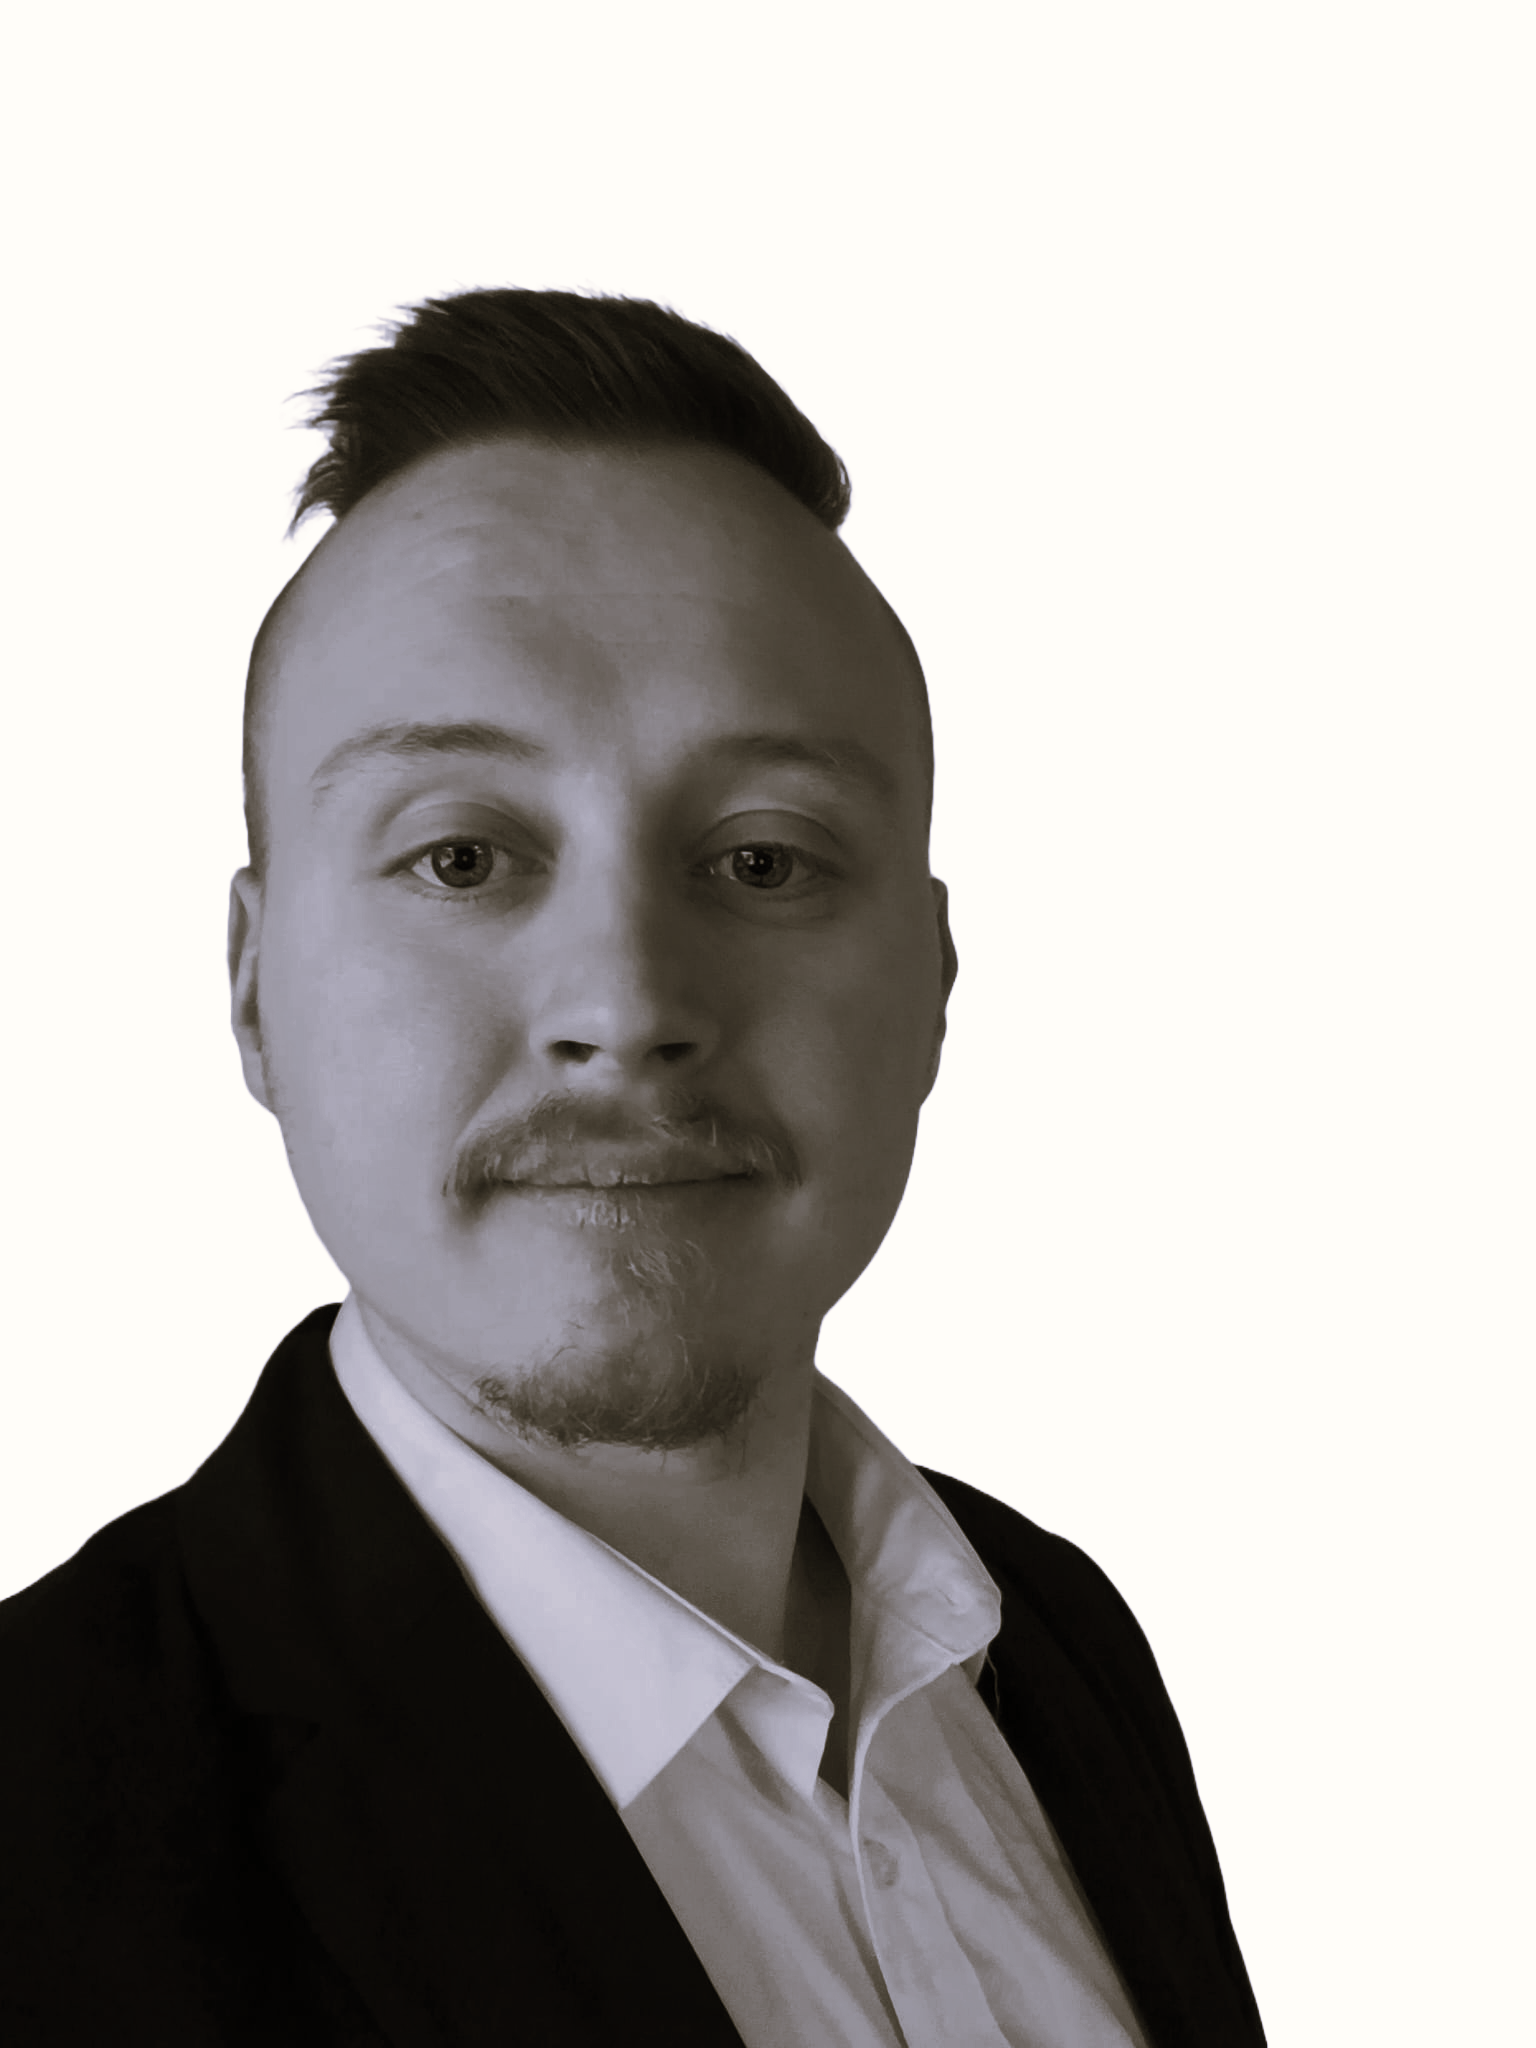
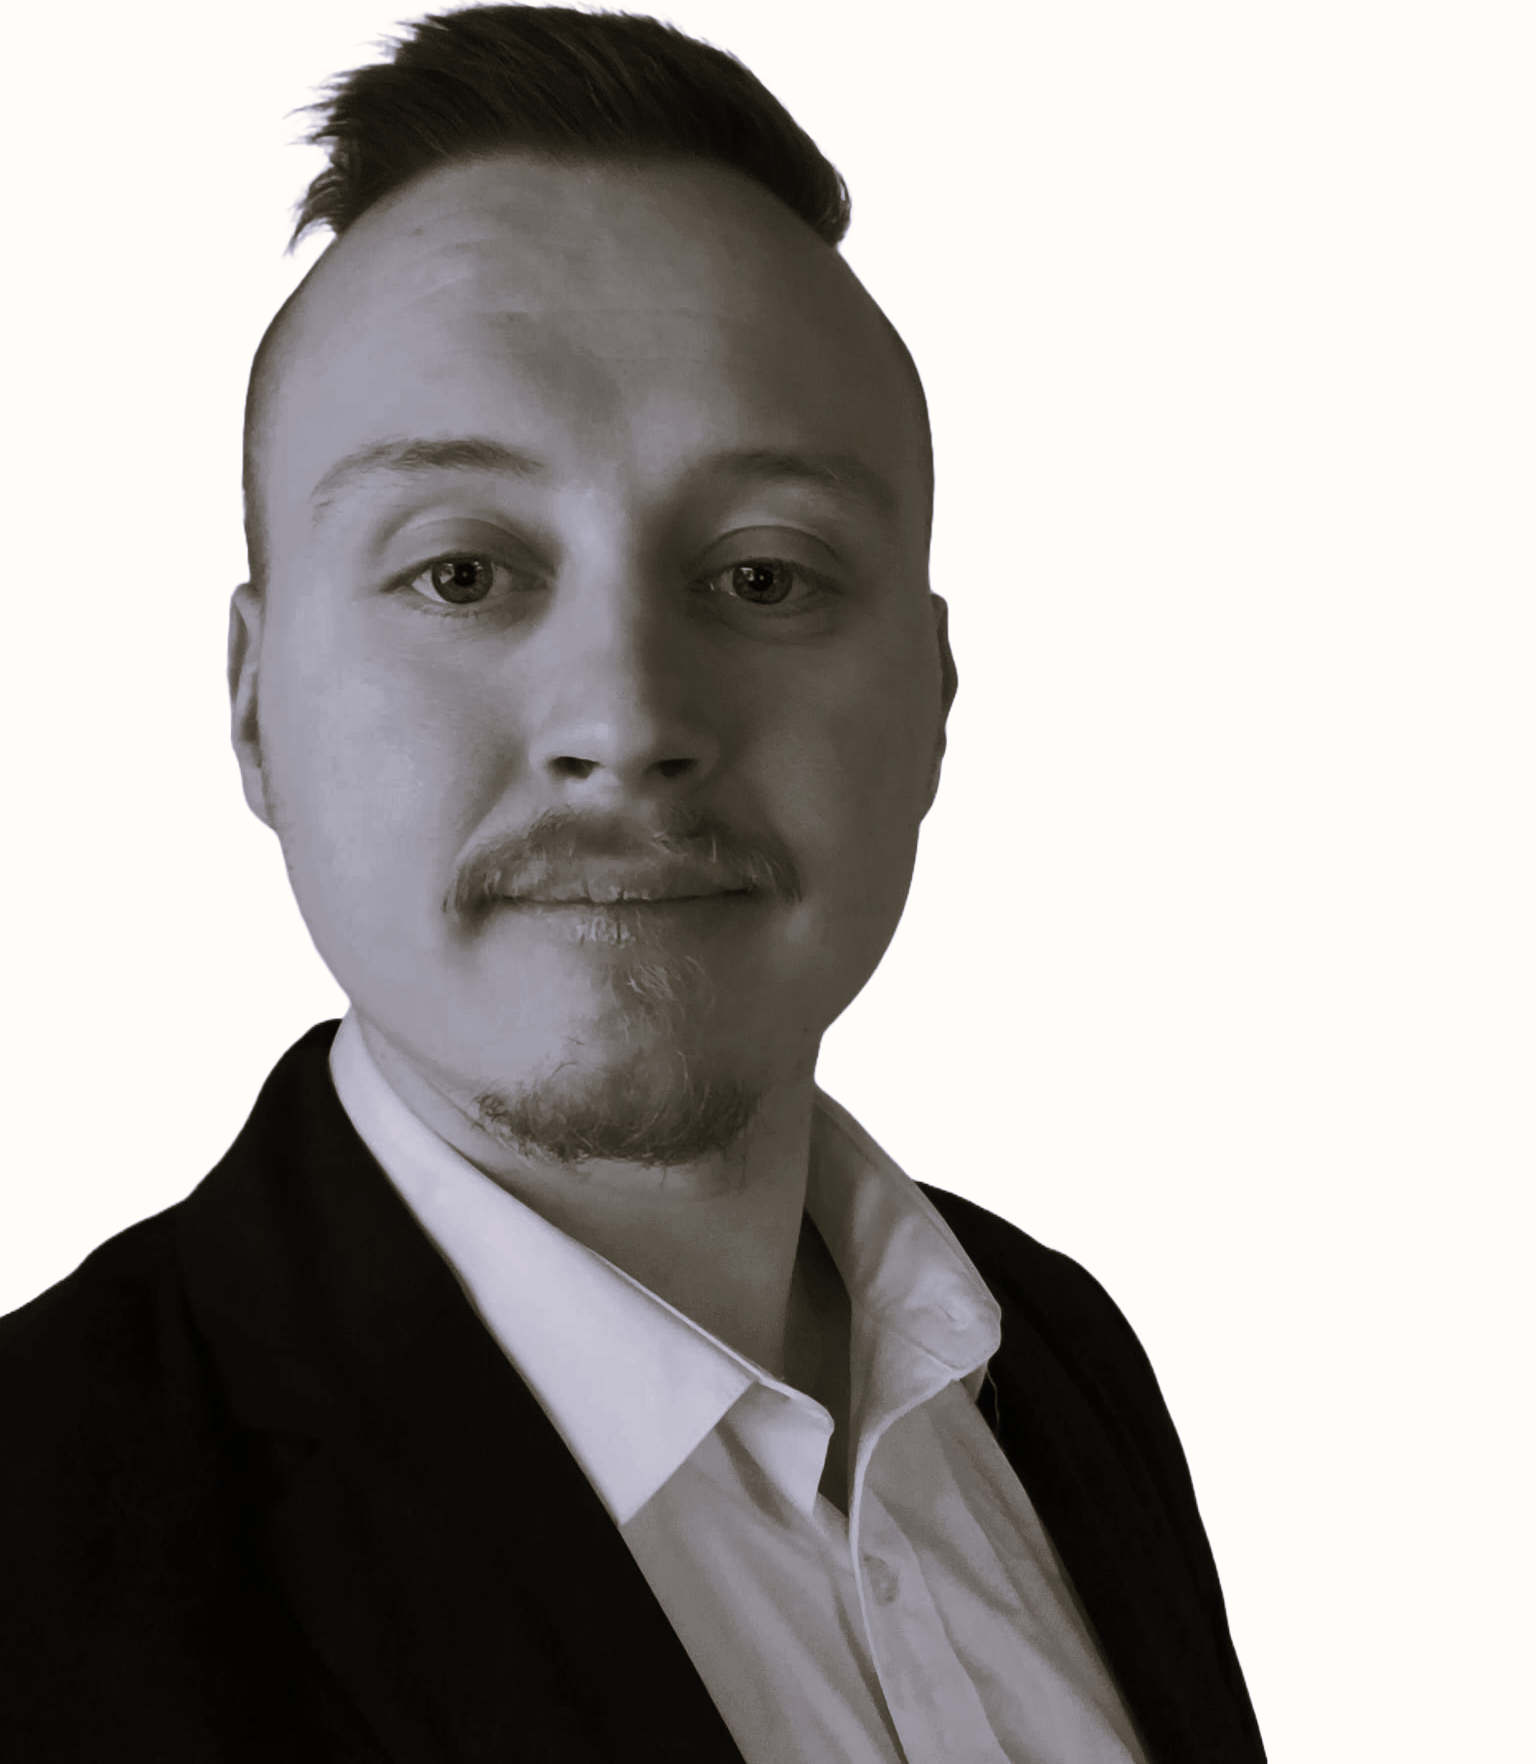
start screen waving hand animation

Changed region(s): [[0.0, 0.0, 0.7812, 0.9666], [0.7812, 0.873, 0.8125, 0.9666], [0.4375, 0.9354, 0.4688, 0.9666]]

diff --git a/src/app/start-screen/start-screen.component.scss b/src/app/start-screen/start-screen.component.scss
@@ -22,12 +22,16 @@
     }
 }
 
+.start-screen-content {
+    width: 70%;
+}
+
 .start-img-div {
     display: flex;
     flex-direction: row;
     align-items: center;
-    gap: 50px;
-    width: 80%;
+    justify-content: space-between;
+    width: 100%;
 
 
     img {
@@ -38,6 +42,8 @@
 .greeting {
     display: flex;
     flex-direction: column;
+    position: relative;
+    padding-top: 40px;
 
     img {
         width: 40px;
@@ -50,7 +56,7 @@
     justify-content: end;
 
     p {
-        width: 40%;
+        width: 240px;
         transition: all 0.2s ease;
         margin-top: 0;
     }
@@ -114,7 +120,8 @@
 }
 
 .letter {
-  transition: all 0.2s ease;
+    display: inline-block;
+    transition: all 0.2s ease;
 }
 
 .letter:hover {
@@ -127,4 +134,21 @@
 
 .letter:not(.upper):hover {
   text-transform: uppercase;
+}
+
+.hand {
+  position: absolute;
+  top: 0;
+  left: 160px;
+
+  opacity: 0;
+  transform: translateY(-10px);
+  transition: all 0.2s ease;
+
+  pointer-events: none;
+}
+
+.show {
+    opacity: 1;
+  transform: translateY(0);
 }

diff --git a/src/app/start-screen/start-screen.component.html b/src/app/start-screen/start-screen.component.html
@@ -3,7 +3,7 @@
         <div class="start-img-div">
             <div class="start-img-text">
                 <div class="greeting">
-                    <img src="/img/waving_hand.png" alt="">
+                    <img src="/img/waving_hand.png" class="hand" [class.show]="hover" alt="">
                     <p (mouseenter)="hover = true" (mouseleave)="hover = false">{{ hover ? `I'M DANIEL KRAFZIK` : 'Hello world' }}</p>
                 </div>
                 <h1><span *ngFor="let letter of letters1; let i = index" class="letter" [class.upper]="letter === letter.toUpperCase() && letter !== ' '">{{ letter }}</span></h1>

diff --git a/src/styles.scss b/src/styles.scss
@@ -26,3 +26,10 @@ a, button, input, textarea {
   cursor: none;
 }
 
+.inactive {
+  display: none;
+}
+
+.active {
+  display: block;
+}
